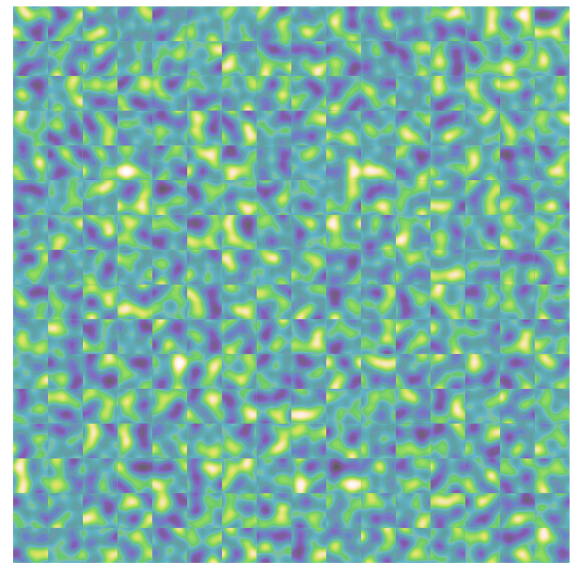
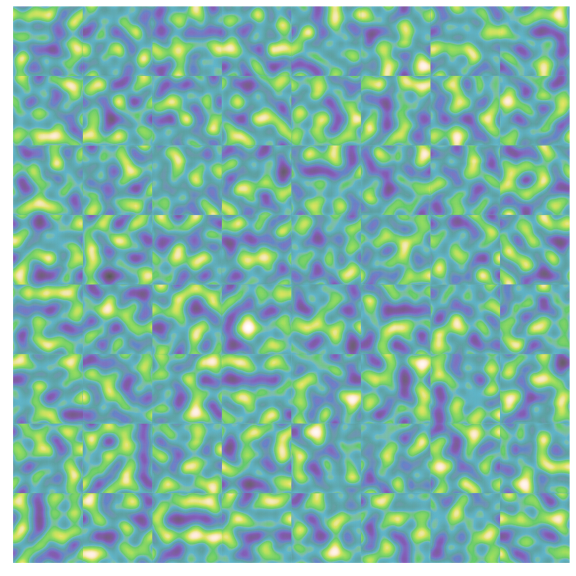
kytfguky

diff --git a/js_project/Game.js b/js_project/Game.js
@@ -22,13 +22,13 @@ export class Game{
     async init() {
         // initialize game calling makedack functions and maybe initializing json score file
         this.deck = await shuffle(await makeDeck())
-        // choose first dealer 
-        await this.chooseDealer()
         // show game players
         console.log("---- Starting Game ---- \nPLayers :")
         for (let i in this.players) {
             console.log(` player ${i} : ${this.players[i].name} (${this.players[i].state})`)
         }
+        // choose first dealer 
+        await this.chooseDealer()
         // set json score file 
 
         // lauch game eventually to be called outside the init method

diff --git a/go_project/main.go b/go_project/main.go
@@ -10,11 +10,12 @@ import (
 	"go_project/matrix"
 	"go_project/perlin"
 	"sync"
+	"time"
 )
 
 const (
-	MAPSIZE      = 100             // taille des maps élémentaires
-	RATIO        = 16              // nombre de maps élémentaires du un coté de map finale ATTENTION C'EST O(N^2) DONC ÇA PLANTE TRES VITE
+	MAPSIZE      = 200             // taille des maps élémentaires
+	RATIO        = 8               // nombre de maps élémentaires du un coté de map finale ATTENTION C'EST O(N^2) DONC ÇA PLANTE TRES VITE
 	FINALMAPSIZE = MAPSIZE * RATIO // taille de la map finale
 	NBMAPS       = RATIO * RATIO   // nombre de maps élémentaires sur la map finale
 	AVGWIDE      = 40              // largeur du moyennage
@@ -22,6 +23,7 @@ const (
 )
 
 func main() {
+	debut := time.Now()
 	// Canal pour récup les maps elementaires générées par perlin
 	out := make(chan [][]float64)
 
@@ -114,7 +116,10 @@ func main() {
 
 	}
 	wgy.Wait()
+	fin := time.Now()
 
+	fmt.Println(fin.Sub(debut))
 	// afficher la matrice finie avec display.showmat
+	fmt.Println("--- rendu image ---")
 	display.ShowMat(FINALMAP, MAPSIZE)
 }
